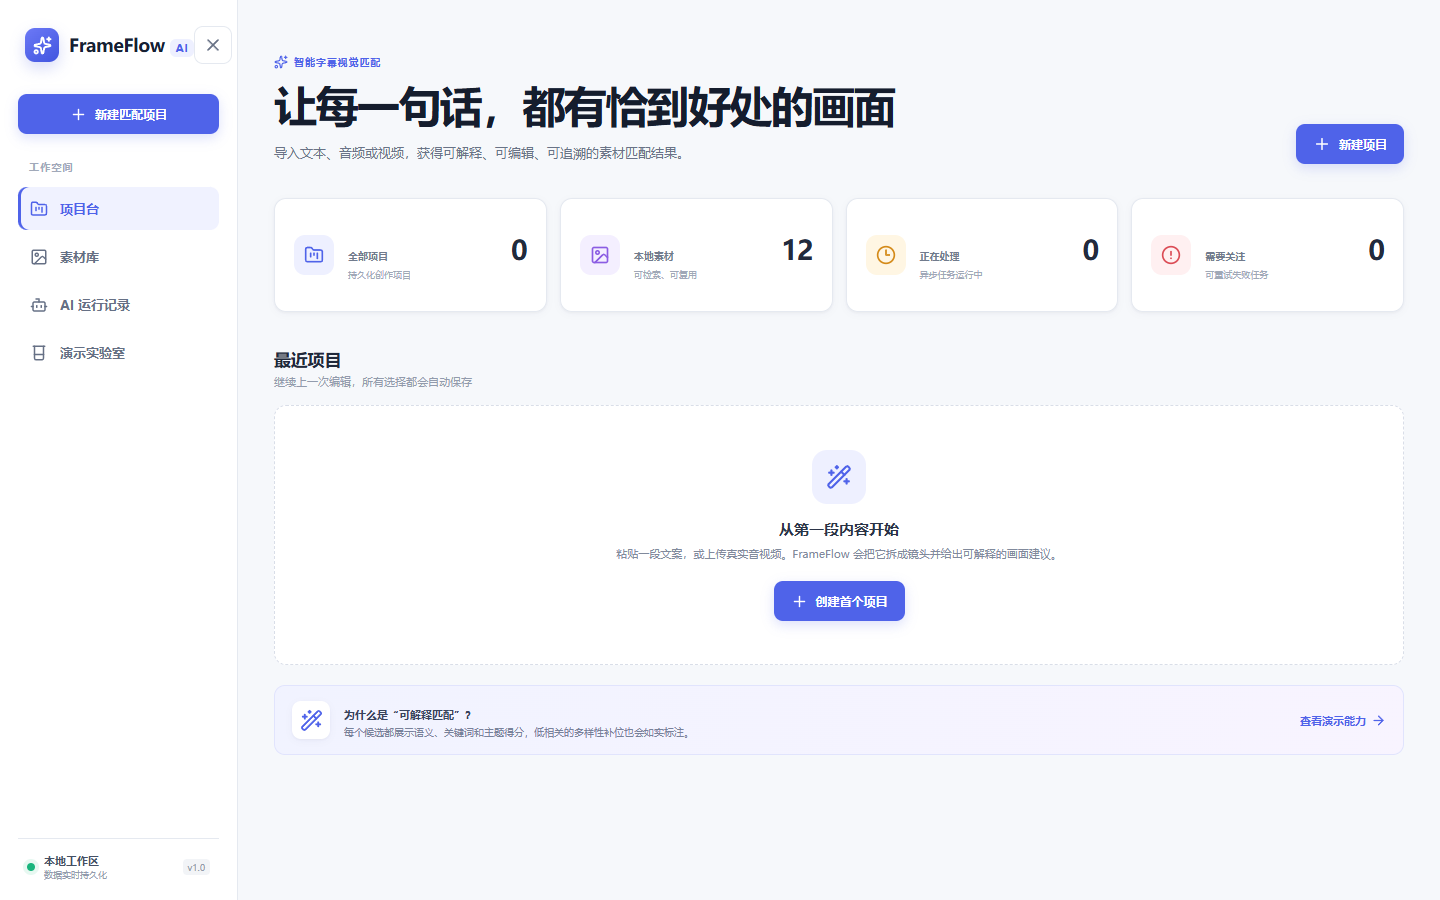
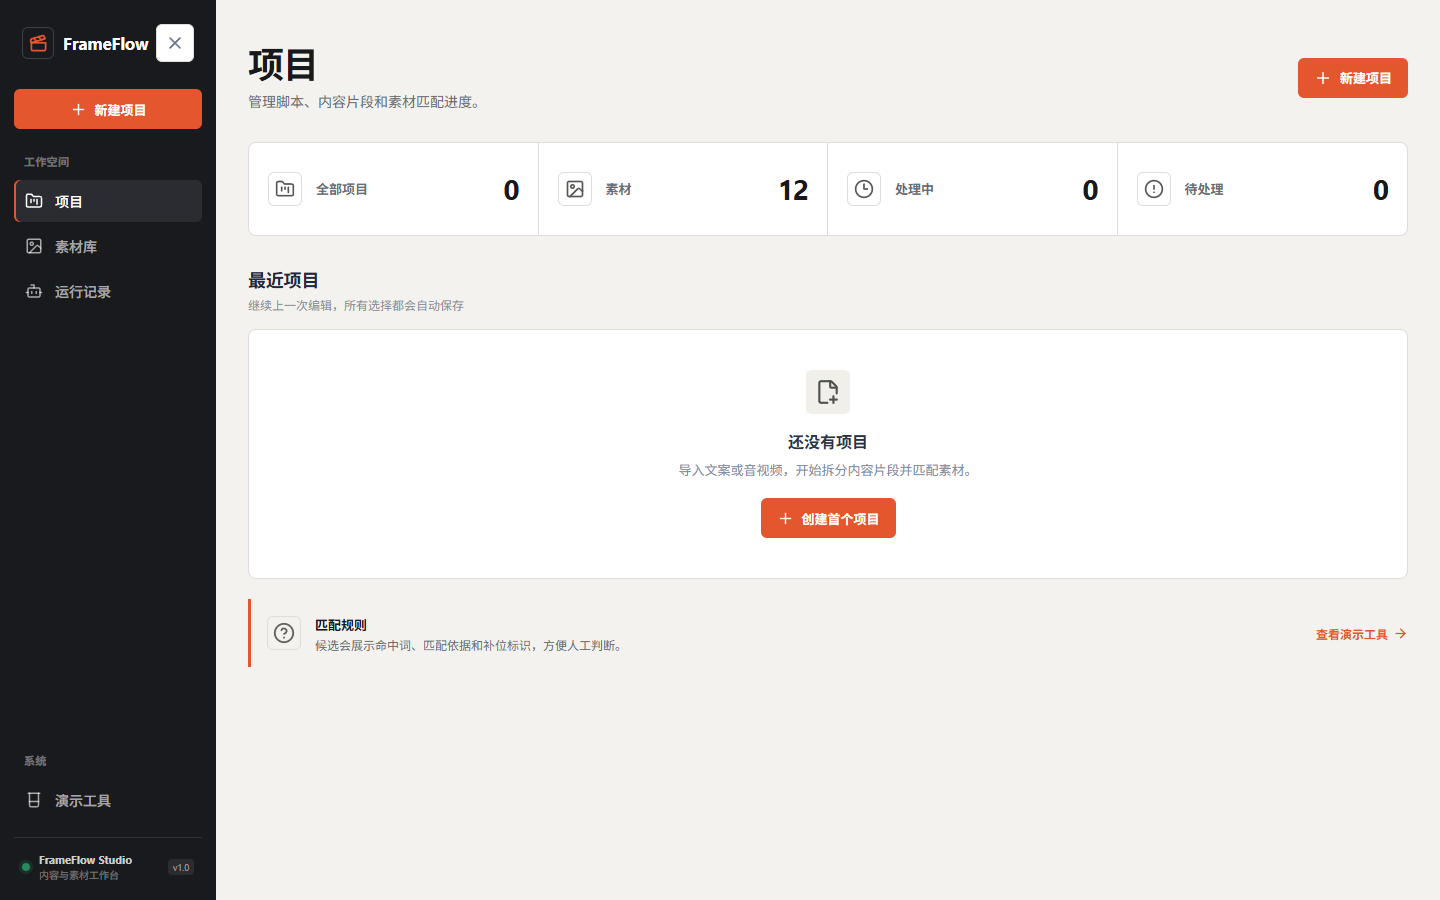
docs(ci): 更新新版界面并修复交付检查

diff --git a/docs/UI_SPEC.md b/docs/UI_SPEC.md
@@ -14,10 +14,10 @@
 
 | 导航 | 路由 | 用户任务 |
 | --- | --- | --- |
-| 项目台 | `/` 或 `/projects` | 查看指标、最近项目、新建项目 |
+| 项目 | `/` 或 `/projects` | 查看指标、最近项目、新建项目 |
 | 素材库 | `/assets` | 搜索、筛选、上传和编辑素材 |
-| AI 运行记录 | `/runs` | 查看 Provider、策略版本、状态和降级记录 |
-| 演示实验室 | `/demo` | 设置一次性故障，完成可重复验收 |
+| 运行记录 | `/runs` | 查看 Provider、策略版本、状态和降级记录 |
+| 演示工具 | `/demo` | 设置一次性故障，完成可重复验收 |
 
 项目子路由：
 
@@ -31,8 +31,9 @@
 
 ### 桌面端（≥1280 px）
 
-- 左侧固定导航或顶部稳定导航，主体最大宽度约 1440 px。
-- 工作台采用三栏：左侧片段列表（约 28%）、中间 16:9 预览/编辑（约 42%）、右侧候选/搜索（约 30%）。
+- 列表和管理页面使用约 216 px 的深色固定侧栏，主内容置于暖白画布中，主体最大宽度约 1260 px。
+- 侧栏将“项目 / 素材库 / 运行记录”归入工作空间，“演示工具”作为系统辅助入口；新建项目按钮保持高可见。
+- 项目工作台进入专用全屏编辑布局并隐藏常规侧栏，采用三栏：左侧片段列表（约 22%）、中间 16:9 预览/编辑（自适应）、右侧候选/搜索（约 28%）。
 - 滚动区独立：片段列表和候选列表可滚动，当前片段的预览与保存状态保持可见。
 
 ### 平板（768～1279 px）
@@ -43,7 +44,7 @@
 ### 手机（<768 px）
 
 - 主导航收起为底部标签或菜单。
-- 工作台分为“片段 / 预览 / 候选”三个页签，当前片段上下文不丢失。
+- 工作台分为“字幕 / 编辑 / 候选”三个页签，当前片段上下文不丢失。
 - 不依赖精确鼠标拖放；提供“上移/下移”后备操作。
 
 ## 4. 视觉系统
@@ -52,16 +53,20 @@
 
 | Token | 用途 |
 | --- | --- |
-| `--bg` / 浅暖灰 | 应用背景，降低长时编辑疲劳 |
-| `--surface` / 白 | 卡片、表单、导航 |
-| `--ink` / 深蓝黑 | 主文字，确保对比度 |
-| `--accent` / 紫蓝 | 主操作、当前选中、进度 |
-| `--success` / 青绿 | 已完成、已保存 |
+| `--canvas` / 暖灰白 | 主内容背景，降低长时编辑疲劳 |
+| `--surface` / 白 | 卡片、表单、表格 |
+| `--sidebar` / 炭黑 | 桌面主导航与品牌区 |
+| `--ink` / 近黑 | 主文字，确保对比度 |
+| `--accent` / 朱橙 | 主操作、当前选中、焦点和关键进度 |
+| `--accent-soft` / 淡橙 | 图标底色、轻量选中和辅助提示 |
+| `--success` / 墨绿 | 已完成、已保存 |
 | `--warning` / 琥珀 | 降级、补位候选、部分能力 |
 | `--danger` / 红 | 任务失败、破坏性操作 |
-| 暗色 16:9 画布 | 预览区，与浅色编辑外壳形成信息层级 |
+| 暗色 16:9 画布 | 预览区，与暖白编辑外壳形成信息层级 |
 
 状态不能只用颜色表达，必须同时有文字和/或图标。
+
+整体采用克制的编辑工作室风格：小圆角、细边框、低阴影和清晰分隔线。避免重新引入紫蓝渐变、发光卡片或大面积高饱和背景。
 
 ### 字体与密度
 
@@ -71,13 +76,13 @@
 
 ## 5. 页面规范
 
-### 5.1 项目台
+### 5.1 项目
 
-**首要信息**：项目总数、素材总数、运行中任务、失败任务、最近项目。
+**首要信息**：全部项目、素材、处理中任务、待处理任务和最近项目；当前“待处理”指标对应失败任务数量，文档和验收不得将其解释为普通排队任务。
 
 **主操作**：“新建项目”始终在首屏可见。
 
-**项目卡片**：项目名、输入类型、状态、片段数、更新时间。处理中点击进处理页，就绪点击进工作台，失败点击进错误详情。
+**最近项目表格**：项目名与短 ID、输入类型、状态、更新时间和打开/更多操作。处理中点击进处理页，就绪点击进工作台，失败点击进错误详情。
 
 **状态**：
 
@@ -136,7 +141,7 @@
 - 上传表单在选择文件后才启用提交；标签/关键词使用逗号或可删除 chip，不伪装自动标签。
 - 无搜索结果时显示“清除筛选”，不显示全局空库引导。
 
-### 5.6 AI 运行记录
+### 5.6 运行记录
 
 表格/列表字段：时间、项目、操作、Provider、Model/策略、状态、耗时、降级标记。
 
@@ -144,9 +149,9 @@
 - 降级运行用警告标记，但如果任务完整成功，状态仍为成功而非失败。
 - 详情显示输入摘要/Hash、策略版本和结果摘要，不显示密钥或请求 Header。
 
-### 5.7 演示实验室
+### 5.7 演示工具
 
-- 页首警告：“仅用于可重复故障演练，不表示真实外部 Provider 已调用。”
+- 页面标题可使用“演示实验室”，但侧栏导航统一显示“演示工具”。页首警告：“仅用于可重复故障演练，不表示真实外部 Provider 已调用。”
 - 三个模式：下一次 AI 降级、下一次任务失败、清除故障。
 - 设置后显示“将被下一个匹配任务消费”；消费后恢复 `none`。
 - 故障开关不出现在普通编辑页主操作区。

diff --git a/README.md b/README.md
@@ -1,16 +1,42 @@
-# FrameFlow AI
+# FrameFlow
 
-[公开源码仓库](https://github.com/tiqing2005/frameflow) · 中文优先的字幕语义分段与可解释素材匹配工作台
+[![FrameFlow CI](https://github.com/tiqing2005/frameflow/actions/workflows/ci.yml/badge.svg)](https://github.com/tiqing2005/frameflow/actions/workflows/ci.yml)
 
-FrameFlow 把文本、音频或视频输入转成持久化异步任务，生成语义片段，为每个片段给出至少 3 个带分项得分和中文理由的素材候选，并允许人工编辑字幕、拖动排序、搜索替换素材。系统还能把最终选择组织成可视化时间线，并异步生成带匹配素材的 MP4 组合预览。应用内管理员登录保护工作台写操作，用户上传且未被引用的素材可安全删除；页面刷新后，任务进度、最终选择、预览结果、AI/规则运行记录和审计记录仍然存在。
+[公开源码仓库](https://github.com/tiqing2005/frameflow) · 中文优先、AI 辅助的字幕语义分段与可解释素材匹配工作台
+
+FrameFlow 把文本、音频或视频输入转成持久化异步任务，生成语义片段，为每个片段给出至少 3 个带分项得分和中文理由的素材候选，并允许人工编辑字幕、拖动排序、搜索替换素材。系统还能把最终选择组织成可视化时间线，并异步生成带匹配素材的 MP4 组合预览。应用内管理员登录保护工作台写操作，用户上传且未被引用的素材可安全删除；页面刷新后，任务进度、最终选择、预览结果、运行记录中的 AI/规则来源和审计记录仍然存在。
 
 ## 产品界面
 
-![FrameFlow 项目台](docs/images/dashboard.png)
+新版界面使用深色侧栏和橙色强调色。工作区导航统一为“项目 / 素材库 / 运行记录”，系统工具集中在“演示工具”；项目总览可查看素材与任务状态，创建项目时可选择文本、音频或视频输入，再进入工作台完成分段、候选比较、人工调整和组合预览。
 
-![FrameFlow 三栏字幕配镜工作台](docs/images/workbench.png)
+<p align="center">
+  <img src="docs/images/dashboard.png" alt="FrameFlow 项目总览" width="900">
+</p>
+<p align="center"><sub>项目总览：统计项目、素材和任务状态，并继续最近编辑。</sub></p>
 
-移动端使用“字幕 / 编辑 / 候选”工作区切换，完整截图见 [移动端工作台](docs/images/workbench-mobile.png)。
+<p align="center">
+  <img src="docs/images/workbench.png" alt="FrameFlow 字幕与素材匹配工作台" width="900">
+</p>
+<p align="center"><sub>项目工作台：检查语义片段、比较可解释候选、调整字幕与素材选择。</sub></p>
+
+<table>
+  <tr>
+    <td width="50%" valign="top">
+      <img src="docs/images/new-project.png" alt="FrameFlow 新建项目" width="100%">
+      <p align="center"><sub>新建项目</sub></p>
+    </td>
+    <td width="50%" valign="top">
+      <img src="docs/images/assets.png" alt="FrameFlow 素材库" width="100%">
+      <p align="center"><sub>素材库</sub></p>
+    </td>
+  </tr>
+</table>
+
+<p align="center">
+  <img src="docs/images/workbench-mobile.png" alt="FrameFlow 移动端工作台" width="320">
+</p>
+<p align="center"><sub>移动端工作台会把同一编辑流程压缩为适合窄屏操作的分区视图。</sub></p>
 
 ## 核心亮点
 
@@ -161,7 +187,7 @@ pip install -r backend/requirements-embeddings-local.txt
 5. 上传一份测试素材，展示自动元数据建议、编辑和安全删除；同时说明种子/已引用素材不能删除。
 6. 注入 `ai_degrade`，展示规则接管与运行记录中的降级标识。
 7. 注入 `job_fail`，展示失败原因、可重试判断与成功恢复。
-8. 打开 AI 运行记录、审计记录、健康检查和公开 Git 提交历史。
+8. 打开运行记录，核对 AI/规则来源、审计记录、健康检查和公开 Git 提交历史。
 
 详细讲稿见 [演示脚本](docs/DEMO_SCRIPT.md) 和 [面试问答](docs/INTERVIEW_QA.md)。
 

diff --git a/docs/test-materials/evidence-shot-list.md b/docs/test-materials/evidence-shot-list.md
@@ -3,7 +3,7 @@
 ## 必拍画面
 
 1. health/live 与 health/ready 成功响应。
-2. 项目台指标和全新项目标题。
+2. 橙黑暖白新版“项目”页、侧栏导航、服务端指标和全新项目标题。
 3. 处理页至少三个不同阶段与实时事件。
 4. 原始字幕和三个不同语义片段。
 5. 一个候选的总分、TF-IDF、关键词、主题分项与命中词。
@@ -12,12 +12,13 @@
 8. 全库搜索和人工选择标记。
 9. Ctrl+R 前后相同文本、顺序和选择。
 10. 素材库图片/视频筛选和测试素材详情。
-11. 运行记录中的实际 Provider、Model、Token / 无 Token 状态。
-12. ai_degrade 的 degraded 记录。
-13. job_fail 的错误码、失败阶段、attempt 和 request_id。
-14. retry 后 attempt 增加、历史保留、最终成功。
-15. 390×844 下“字幕 / 编辑 / 候选”移动面板。
-16. 服务或容器重启后同一 Project ID 仍可访问。
+11. 时间线、预览任务进度和最终可播放的真实 MP4。
+12. “运行记录”页面中的实际 Provider、Model、Token / 无 Token 状态。
+13. ai_degrade 的 degraded 记录。
+14. job_fail 的错误码、失败阶段、attempt 和 request_id。
+15. retry 后 attempt 增加、历史保留、最终成功。
+16. 390×844 下“字幕 / 编辑 / 候选”移动面板。
+17. 服务或容器重启后同一 Project ID 仍可访问。
 
 ## 文件命名建议
 
@@ -31,12 +32,13 @@
 - 08-manual-selection.png
 - 09-after-refresh.png
 - 10-assets.png
-- 11-runs-provider.png
-- 12-ai-degrade.png
-- 13-job-fail.png
-- 14-retry-success.png
-- 15-mobile-workbench.png
-- 16-restart-persistence.png
+- 11-preview-mp4.png
+- 12-runs-provider.png
+- 13-ai-degrade.png
+- 14-job-fail.png
+- 15-retry-success.png
+- 16-mobile-workbench.png
+- 17-restart-persistence.png
 
 ## 录屏安全
 

diff --git a/docs/DEMO_SCRIPT.md b/docs/DEMO_SCRIPT.md
@@ -38,7 +38,7 @@
 
 ### 镜头 1｜00:00–00:20｜登录与业务闭环
 
-**画面**：从登录页开始，使用提交给面试官的临时测试账号登录，进入项目台。画面同时可见 FrameFlow AI 名称、四个主导航和“新建项目”。
+**画面**：从登录页开始，使用提交给面试官的临时测试账号登录，进入“项目”页。画面同时可见 FrameFlow 品牌、深色侧栏中的“项目 / 素材库 / 运行记录 / 演示工具”和橙色“新建项目”。
 
 **口播**：
 
@@ -98,7 +98,7 @@
 
 ### 镜头 7｜03:05–03:35｜素材上传、自动元数据与安全删除
 
-**画面**：进入素材库，上传准备好的测试素材，标签/关键词留空，展示系统给出的元数据建议和实际运行来源。打开详情后删除这份未被引用的上传素材，确认数量减少；随后指向一个种子素材，说明它受保护，不执行破坏性删除。若时间允许，快速打开 AI 运行记录查看 `asset_tagging` 来源。
+**画面**：进入素材库，上传准备好的测试素材，标签/关键词留空，展示系统给出的元数据建议和实际运行来源。打开详情后删除这份未被引用的上传素材，确认数量减少；随后指向一个种子素材，说明它受保护，不执行破坏性删除。若时间允许，快速打开侧栏“运行记录”（页面标题为“AI 运行记录”）查看 `asset_tagging` 来源。
 
 **口播**：
 
@@ -108,7 +108,7 @@
 
 ### 镜头 8｜03:35–04:15｜可重复失败与重试
 
-**画面**：进入“演示实验室”，指向“这是故障演练”警告。点击“下一次任务失败”，立即新建文本项目“故障演练”，粘贴 `failure-retry-transcript.txt`（若时间紧，只粘贴前两句）。看到 failed 状态、错误原因和重试按钮后点击重试，等待至少进入 running；如处理速度足够，停到 succeeded。
+**画面**：点击侧栏“演示工具”，进入页面内的“演示实验室”，指向“这是故障演练”警告。点击“下一次任务失败”，立即新建文本项目“故障演练”，粘贴 `failure-retry-transcript.txt`（若时间紧，只粘贴前两句）。看到 failed 状态、错误原因和重试按钮后点击重试，等待至少进入 running；如处理速度足够，停到 succeeded。
 
 **口播**：
 

diff --git a/docs/PROJECT_STRUCTURE.md b/docs/PROJECT_STRUCTURE.md
@@ -136,13 +136,13 @@ frontend/src/
 ├─ api.ts                     # 唯一 fetch 边界、ApiError、资源 API
 ├─ types.ts                   # 与 API 契约对齐的 TypeScript 类型
 ├─ pages/
-│  ├─ DashboardPage.tsx       # 项目台
+│  ├─ DashboardPage.tsx       # “项目”总览、指标与最近项目
 │  ├─ NewProjectPage.tsx      # 文本/文件新建
 │  ├─ ProcessingPage.tsx      # 持久化任务进度、失败与重试
 │  ├─ WorkbenchPage.tsx       # 字幕编辑/排序、快速替换、时间线与预览播放
 │  ├─ AssetsPage.tsx          # 素材库与上传
-│  ├─ RunsPage.tsx            # AI/匹配运行记录
-│  └─ DemoLabPage.tsx         # 一次性故障注入
+│  ├─ RunsPage.tsx            # 侧栏“运行记录”对应的 AI/匹配追溯页
+│  └─ DemoPage.tsx            # 侧栏“演示工具”对应的一次性故障注入页
 ├─ components/
 │  ├─ ui.tsx                  # 精简的基础组件/图标、骨架、Toast
 │  ├─ SegmentList.tsx         # 如页面过大时抽离

diff --git a/docs/TEST_PLAN.md b/docs/TEST_PLAN.md
@@ -224,7 +224,7 @@ bash scripts/acceptance.sh http://127.0.0.1:8000
 
 ### E2E-01：核心闭环
 
-1. 项目台无数据时显示真实空状态，有数据时指标与列表一致。
+1. “项目”页无数据时显示真实空状态，有数据时指标与最近项目表格一致。
 2. 新建文本项目，提交期间按钮禁用，无重复项目。
 3. 处理页显示服务端阶段/进度/事件，任务成功后进工作台。
 4. 原始字幕完整；每段有主题/关键词；每段至少 3 候选且理由可见。
@@ -235,7 +235,7 @@ bash scripts/acceptance.sh http://127.0.0.1:8000
 
 ### E2E-02：故障与重试
 
-1. 演示实验室明确声明故障注入性质。
+1. 从侧栏“演示工具”进入的演示实验室明确声明故障注入性质。
 2. 设置 `job_fail`，创建 TD-02 项目。
 3. 任务 failed；错误码、人类可读原因、失败阶段和重试按钮可见。
 4. 点击重试，按钮在请求中禁用；attempt 增加，事件历史保留。
@@ -265,7 +265,7 @@ bash scripts/acceptance.sh http://127.0.0.1:8000
 | UX-01 | 1440×900 工作台 | 三栏可见，各自滚动，无主操作遮挡 |
 | UX-02 | 1280×720 录屏 | 页首、主操作、候选和保存状态可读 |
 | UX-03 | 768×1024 | 两栏/标签切换，当前 Segment 不丢 |
-| UX-04 | 390×844 | 无全页水平滚动，创建/重试/保存/替换可用 |
+| UX-04 | 390×844 | “字幕 / 编辑 / 候选”三面板可切换，无全页水平滚动，创建/重试/保存/替换可用 |
 | A11Y-01 | Tab 键遍历 | 所有主操作可聚焦，焦点环可见，顺序合理 |
 | A11Y-02 | 纯键盘核心流 | 可创建、选 Segment、编辑、采用素材；排序有非拖放备选 |
 | A11Y-03 | 状态表达 | 成功/警告/失败不只依赖颜色，有文字/图标 |

diff --git a/docs/INTERVIEW_QA.md b/docs/INTERVIEW_QA.md
@@ -12,9 +12,9 @@
 
 **证据：** `SCORING_MATRIX.md` 将每个必须项映射到 API/UI/测试。
 
-### Q2：为什么不做完整剪辑器或预览视频？
+### Q2：为什么不做完整剪辑器或专业视频导出？
 
-**答：**原题明确说重点是“输入、字幕处理、素材匹配、人工调整、结果保存”。视频渲染会引入编码器、素材时长/比例、转场和异步产物管理，很容易损害 30 分核心闭环和 20 分稳定性。本版用 16:9 静态组合预览支持决策，不伪装完整时间轴。
+**答：**原题重点是“输入、字幕处理、素材匹配、人工调整、结果保存”。本版已经用持久化异步任务和 ffmpeg 生成可播放的 MP4 组合预览，时间线按字幕时间戳或安全估算时长组织素材；但它仍不是帧级非线性编辑器，也不提供多音轨、复杂转场、码率/分辨率模板等专业导出参数。这样既能验证真实媒体闭环，又不把 Demo 夸大成完整剪辑软件。
 
 ## 2. 技术选型
 

diff --git a/docs/SCORING_MATRIX.md b/docs/SCORING_MATRIX.md
@@ -33,7 +33,7 @@
 | 匹配理由/关键词 | 已实现 | 持久化分项得分、命中词和中文解释 | 候选卡片与运行记录 |
 | 人工替换素材 | 已实现 | 候选选择与搜索替换 | Demo 快速替换 |
 | 选择关系刷新不丢 | 已实现 | Selection 持久化，匹配重跑不覆盖手选 | Demo 强制刷新 + API 集成测试 |
-| 外部 AI 失败提示 | 已实现 | 可重复故障注入、运行记录和错误详情 | 演示实验室 |
+| 外部 AI 失败提示 | 已实现 | 可重复故障注入、运行记录和错误详情 | 侧栏“演示工具”中的演示实验室 |
 | 规则降级 | 已实现 | 规则主干可在无 LLM 情况下完整工作 | `ai_degrade` 运行记录 |
 | API Key 不暴露 | 已实现 | 运行时默认不需要 Key；适配器只从后端环境变量读取 | 静态检查、前端构建产物检查 |
 | 登录与受保护写操作 | 已实现 | 单管理员 HttpOnly 会话、CSRF、登录限流、退出与本机首次初始化 | 认证 API/Playwright；公网部署哈希配置 |
@@ -59,7 +59,7 @@
 | 稳定性 | 20 | 任务持久化、幂等、租约恢复、故障注入、重试、统一错误 | API-02/03/04；E2E-02；重启测试 |
 | 工程质量 | 15 | 模块化分层、数据约束、应用认证/CSRF、环境配置、同源 API、安全上传和删除 | 后端测试、前端 lint/build、CI |
 | 学习与解决问题 | 15 | 决策记录、规则降级、可解释排序、取舍与复盘 | `ARCHITECTURE.md`、`INTERVIEW_QA.md`、`KNOWN_ISSUES.md` |
-| 产品体验 | 10 | 编辑器布局、真实进度、空/错误/保存反馈、搜索替换 | UX 手工检查清单；移动端宽度 |
+| 产品体验 | 10 | 橙黑暖白工作室界面、编辑器布局、真实进度、空/错误/保存反馈、搜索替换 | UX 手工检查清单；移动端宽度 |
 | 部署与文档 | 10 | 目标公网地址、源码、README、Docker、测试计划、4:30 演示稿 | 部署完成后的公网 smoke、README 命令复制执行、真实视频链接 |
 
 ## 四、得分风险与冲刺顺序